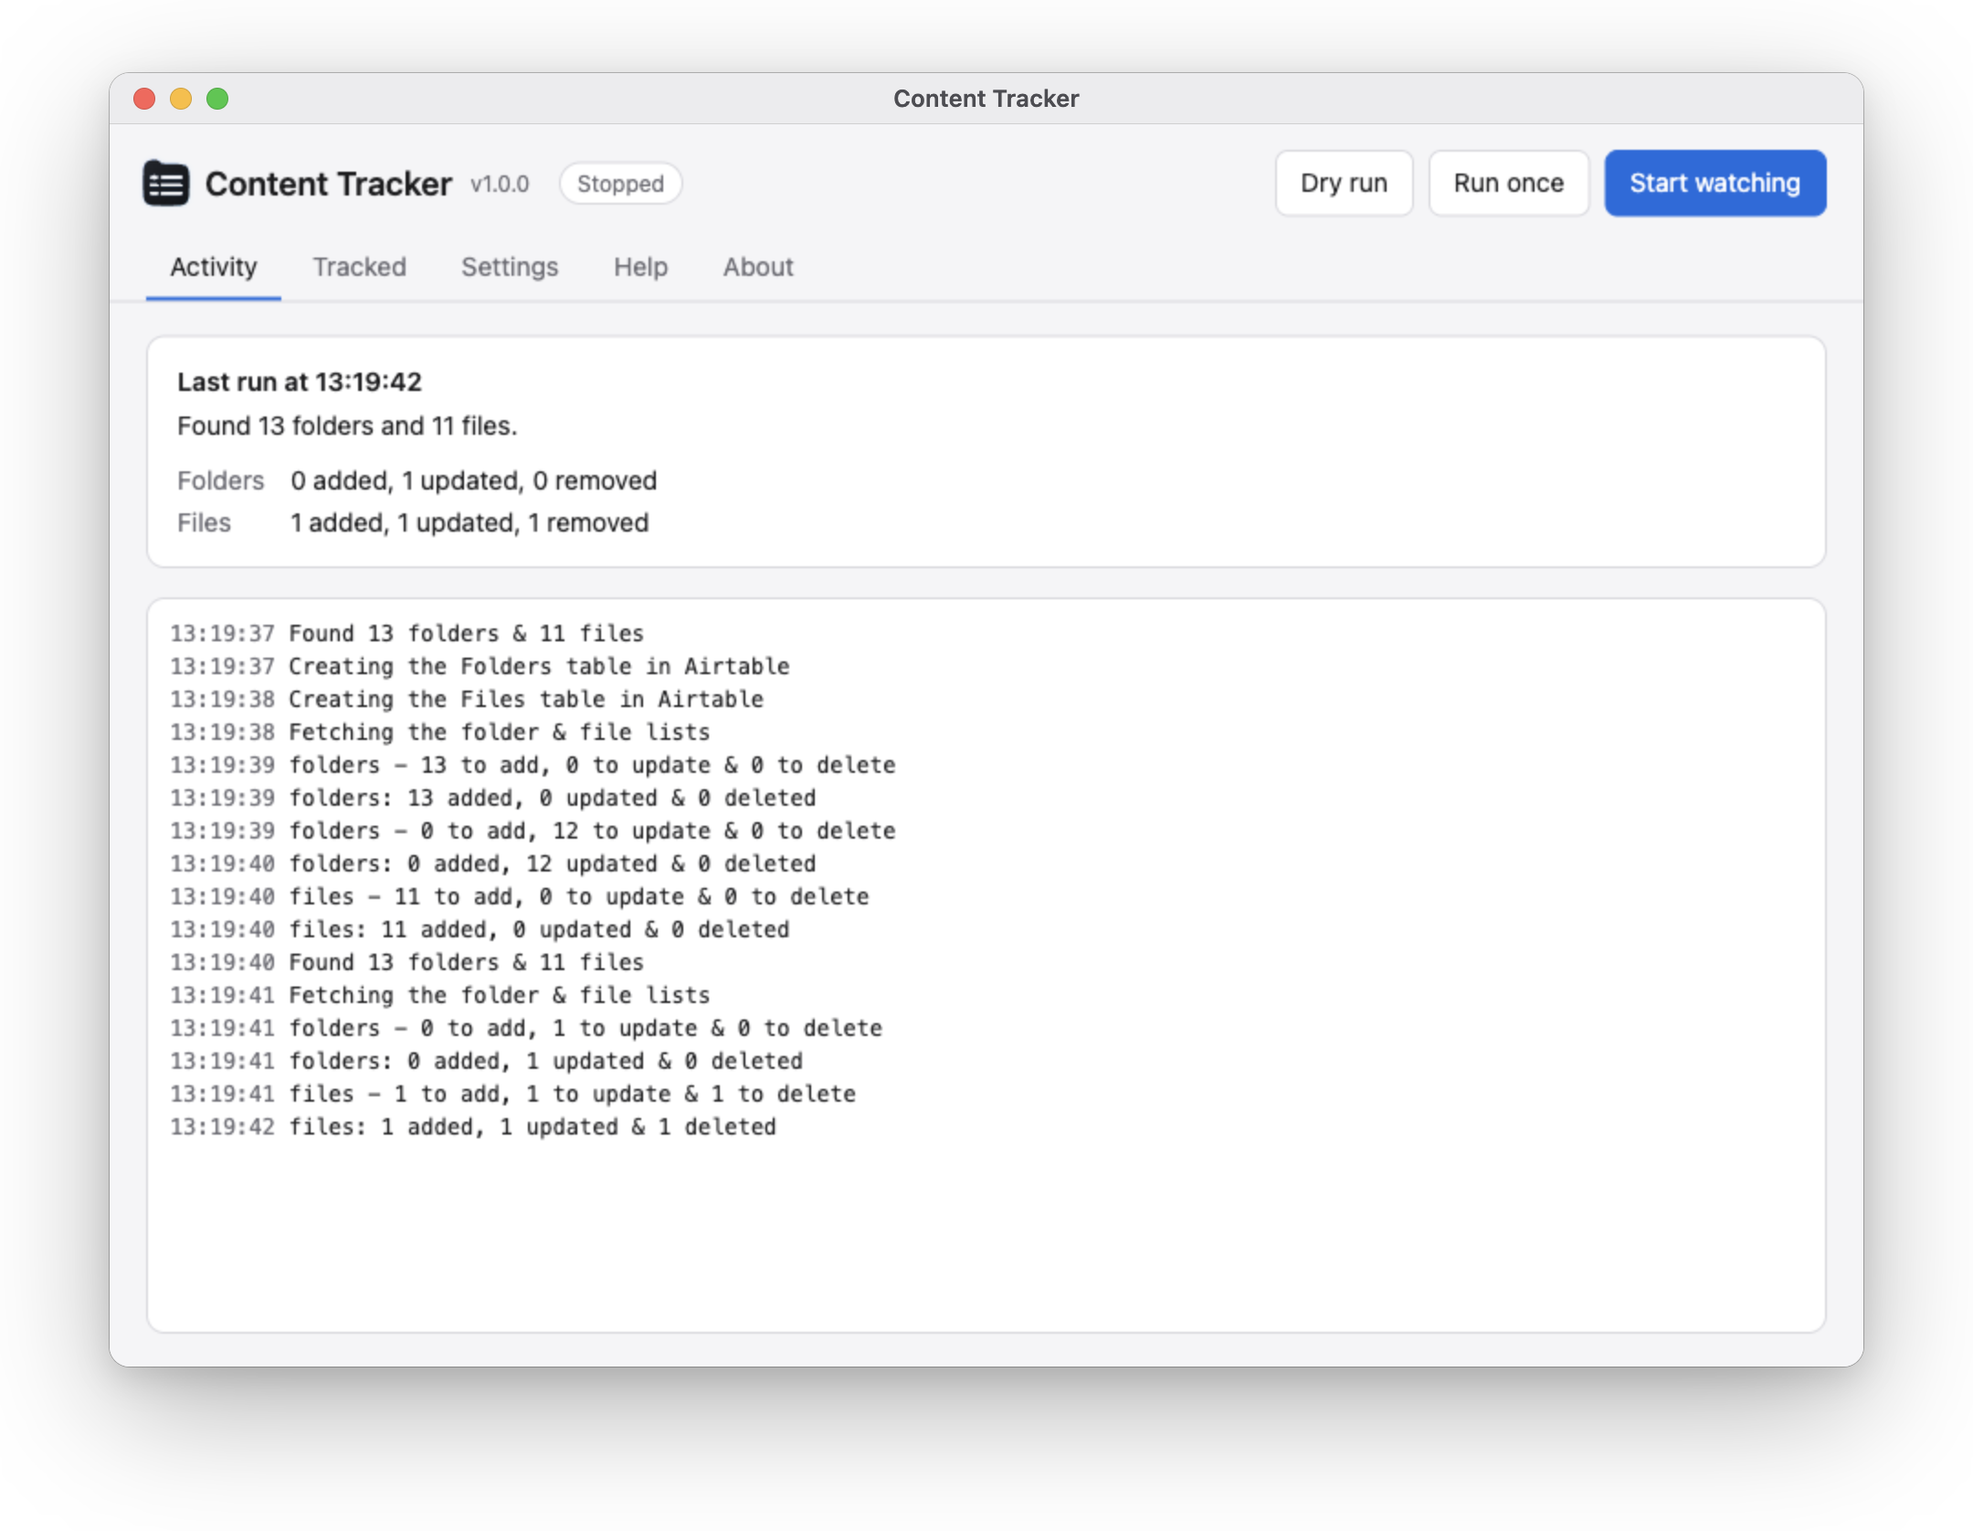
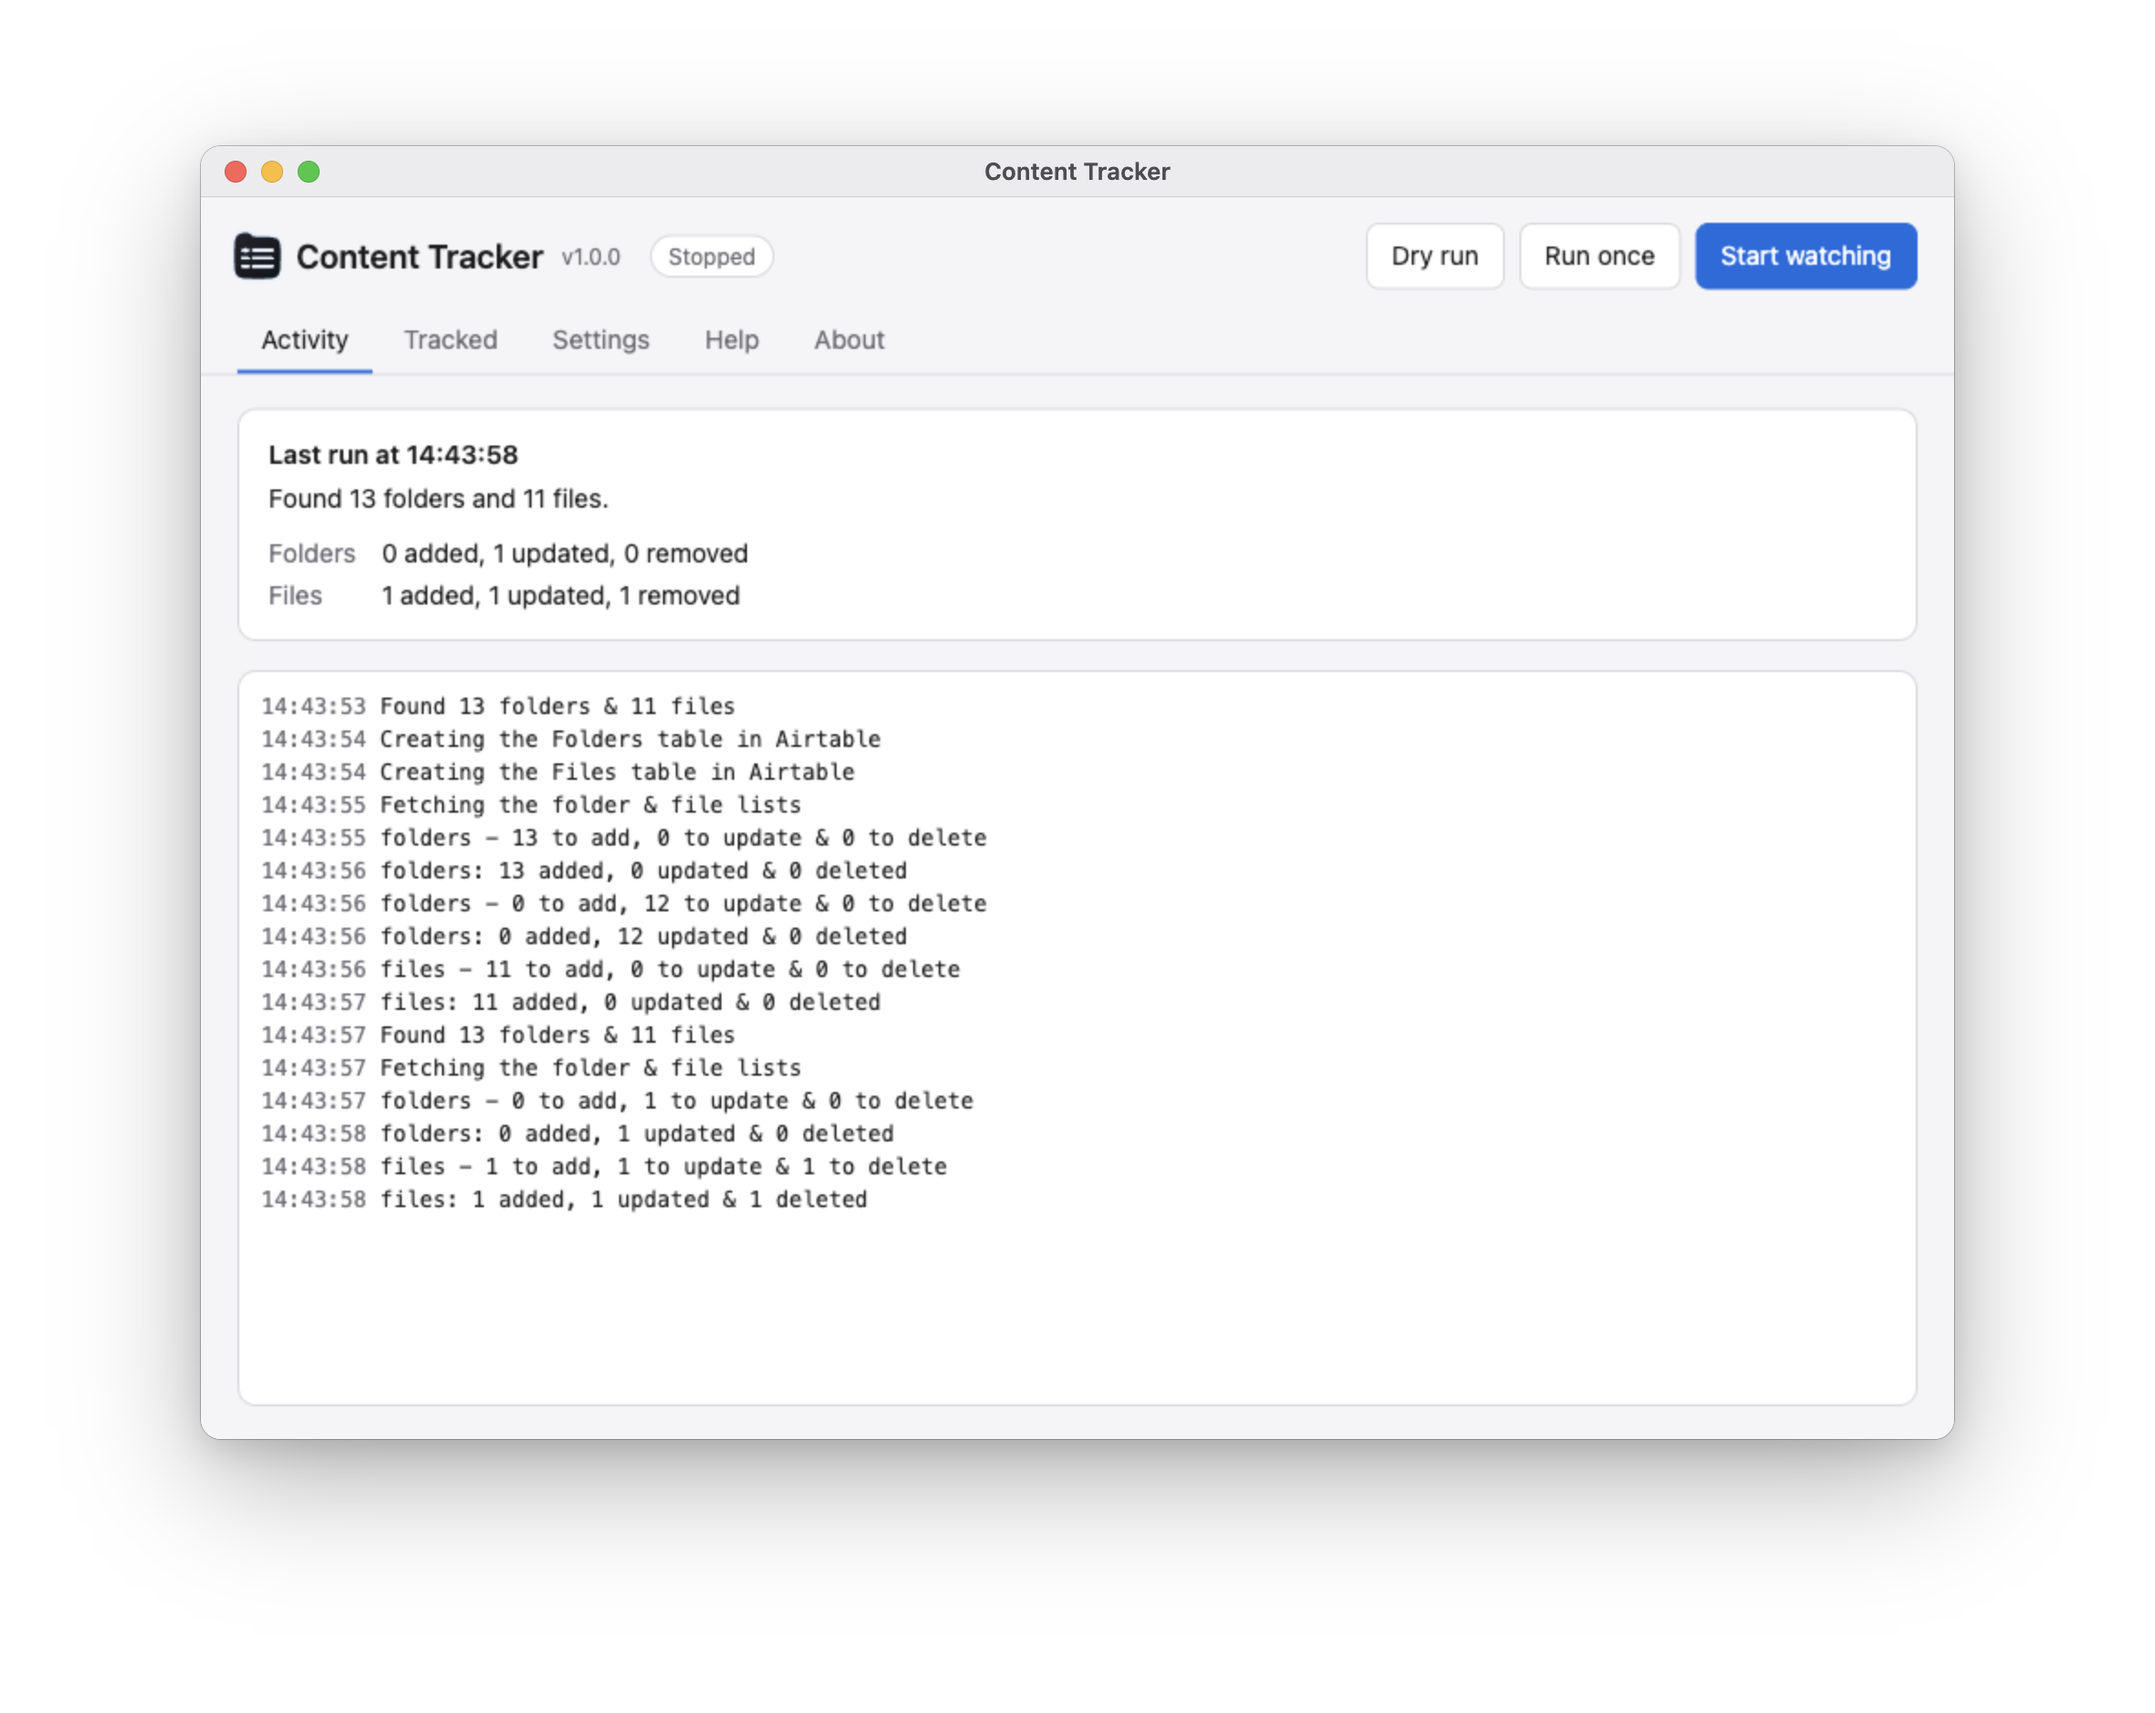
Room to breathe
- The screenshots' windows had less room round them than their shadows
  needed, so the shadows stopped in a hard edge. Taken again with room for
  all of it, and the app as it is for the release.
- The test of clearing the cache looked for it in the wrong place on
  Windows, which keeps it a folder deeper, in Cache.

diff --git a/e2e/app.e2e.js b/e2e/app.e2e.js
@@ -357,8 +357,8 @@ test('clears the media cache', async () => {
 	await page.getByRole('button', { name: 'Run once' }).click()
 	await expect(page.getByTestId('result')).toContainText('Last run')
 
-	// it's kept in the user's cache folder, which the tests put under root
-	const caches = async () => (await fs.readdir(root, { recursive: true })).filter(file => /content-tracker[\\/][0-9a-f]{16}\.json$/.test(file))
+	// it's kept in the user's cache folder, which the tests put under root: on Windows in a Cache folder of its own
+	const caches = async () => (await fs.readdir(root, { recursive: true })).filter(file => /content-tracker[\\/](Cache[\\/])?[0-9a-f]{16}\.json$/.test(file))
 	expect(await caches()).toHaveLength(1)
 
 	await page.getByRole('button', { name: 'Settings' }).click()
